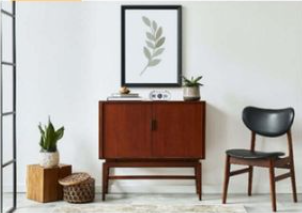
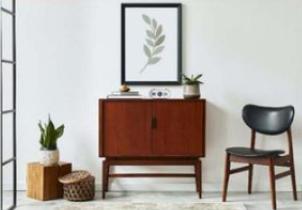
about us page done  + navbar position sticky

diff --git a/style.css b/style.css
@@ -3,6 +3,11 @@
     --blue: #01164b;
 }
 
+html {
+    scroll-behavior: smooth;
+    scroll-padding-top: 76px;
+}
+
 * {
     margin: 0;
     padding: 0;
@@ -16,11 +21,15 @@ body {
 }
 
 nav {
+    position: sticky;
+    top: 0;
     display: flex;
     align-items: center;
     justify-content: space-between;
     background-color: #fff;
     height: 76px;
+    width: 100%;
+    z-index: 999999;
 }
 
 nav ul {
@@ -75,7 +84,6 @@ nav .personal-info li {
 main {
     width: 100vw;
     background-color: #f5f5f5;
-    /* #0f0f0f */
     padding: 70px 0 70px 50px;
     display: flex;
     justify-content: space-between;
@@ -325,10 +333,10 @@ main {
     color: #fff;
 }
 
-/***************************** SECTION *****************************/
+/***************************** SHOP *****************************/
 
 #shop {
-    margin: 60px;
+    padding: 60px;
 }
 
 .features {
@@ -471,3 +479,106 @@ main {
 }
 
 /***************************** ABOUT US *****************************/
+
+#aboutUs {
+    background-color: #f5f5f5;
+}
+
+.about-us-top {
+    display: flex;
+    align-items: center;
+    justify-content: center;
+    height: 100%;
+    padding: 80px 80px 0;
+    gap: 30px;
+}
+
+.about-us-top img {
+    width: 940px;
+    border-radius: 20px;
+}
+
+.about-us-top-text {
+    display: flex;
+    flex-direction: column;
+    gap: 16px;
+}
+
+.about-us-top-text h4 {
+    /* text-transform: uppercase; */
+    color: var(--green);
+    font-size: 18px;
+}
+
+.about-us-top-text h3 {
+    font-size: 46px;
+}
+
+.about-us-top-text p {
+    font-size: 17px;
+}
+
+.about-us-top-text a,
+.about-us-top-text a button {
+    width: fit-content;
+    font-size: 15px;
+    text-decoration: none;
+    color: #fff;
+    padding: 8px 10px;
+    border: none;
+    background-color: var(--green);
+    border-radius: 40px;
+}
+
+.about-us-bottom {
+    /* height: max-content; */
+    display: flex;
+    align-items: center;
+    justify-content: center;
+    gap: 80px;
+    padding: 20px 100px 30px;
+}
+
+.bottom-sides {
+    display: flex;
+    align-items: center;
+    justify-content: center;
+    text-align: center;
+    flex-direction: column;
+}
+
+.bottom-sides span  {
+    font-size: 72px;
+    font-weight: 600;
+    color: var(--green);
+}
+
+.bottom-sides p {
+    font-size: 14px;
+    width: 70%;
+}
+
+.bottom-divider {
+    height: 100px;
+    width: 1px;
+    background-color: #555;
+}
+
+.bottom-center {
+    text-align: center;
+}
+
+.bottom-center span {
+    background: url(./assets/about-us-text-img.jpg);
+    background-position: center;
+    background-size: cover;
+    background-clip: text;
+    font-size: 200px;
+    font-weight: 600;
+    color: #014b1bbd;
+}
+
+.bottom-center p {
+    text-transform: uppercase;
+    font-weight: 700;
+}

diff --git a/index.html b/index.html
@@ -205,7 +205,33 @@
         </div>
     </section>
 
-    <section id="aboutUs"></section>
+    <section id="aboutUs">
+        <div class="about-us-top">
+            <img src="./assets/about-us-img.png">
+            <div class="about-us-top-text">
+                <h4>Who We Are</h4>
+                <h3>Creative Solutions By Professional Designers</h3>
+                <p>We craft premium, thoughtfully designed furniture to transform your living spaces, seamlessly blending modern craftsmanship with everyday comfort.</p>
+                <a href="https://github.com/raghacchino/"><button>Discover More</button></a>
+            </div>
+        </div>
+        <div class="about-us-bottom">
+            <div class="bottom-sides">
+                <span>3 Bn</span>
+                <p>Products sold and delivered to each doorstep with only 5% returns.</p>
+            </div>
+            <div class="bottom-divider"></div>
+            <div class="bottom-center">
+                <span>20</span>
+                <p>Years of Experience</p>
+            </div>
+            <div class="bottom-divider"></div>
+            <div class="bottom-sides">
+                <span>4.9</span>
+                <p>Absolutely wonderful experience! Great service and highly recommeded.</p>
+            </div>
+        </div>
+    </section>
 
     <section id="contactUs"></section>
 